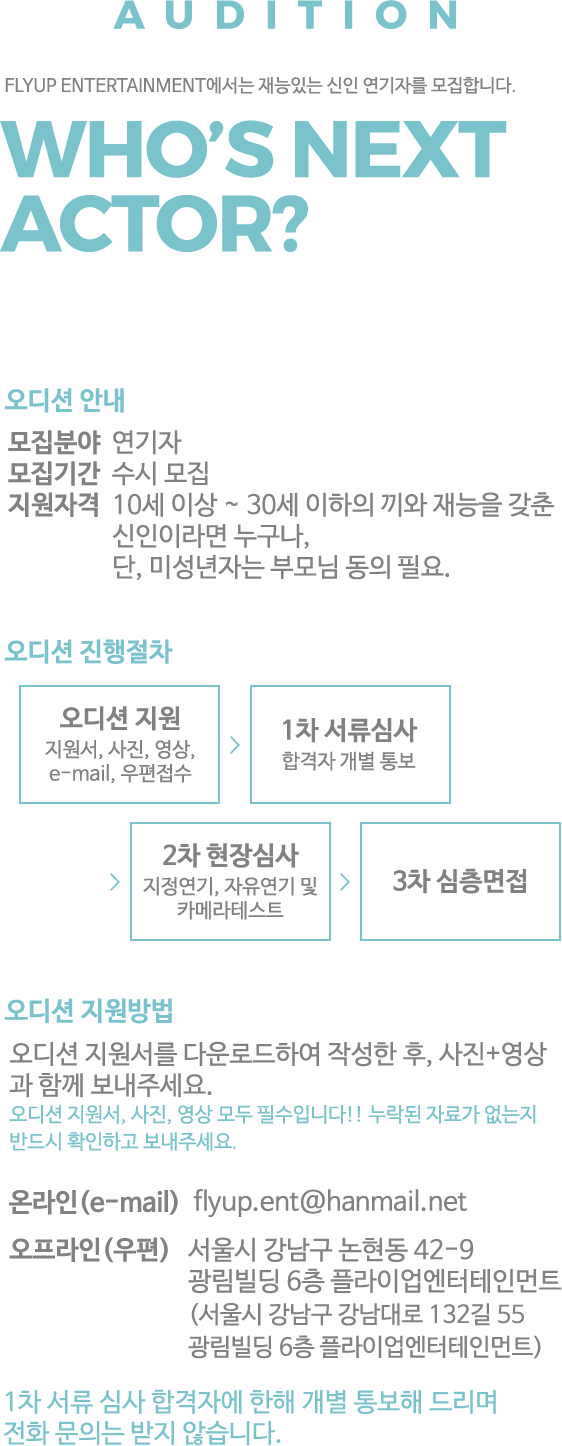
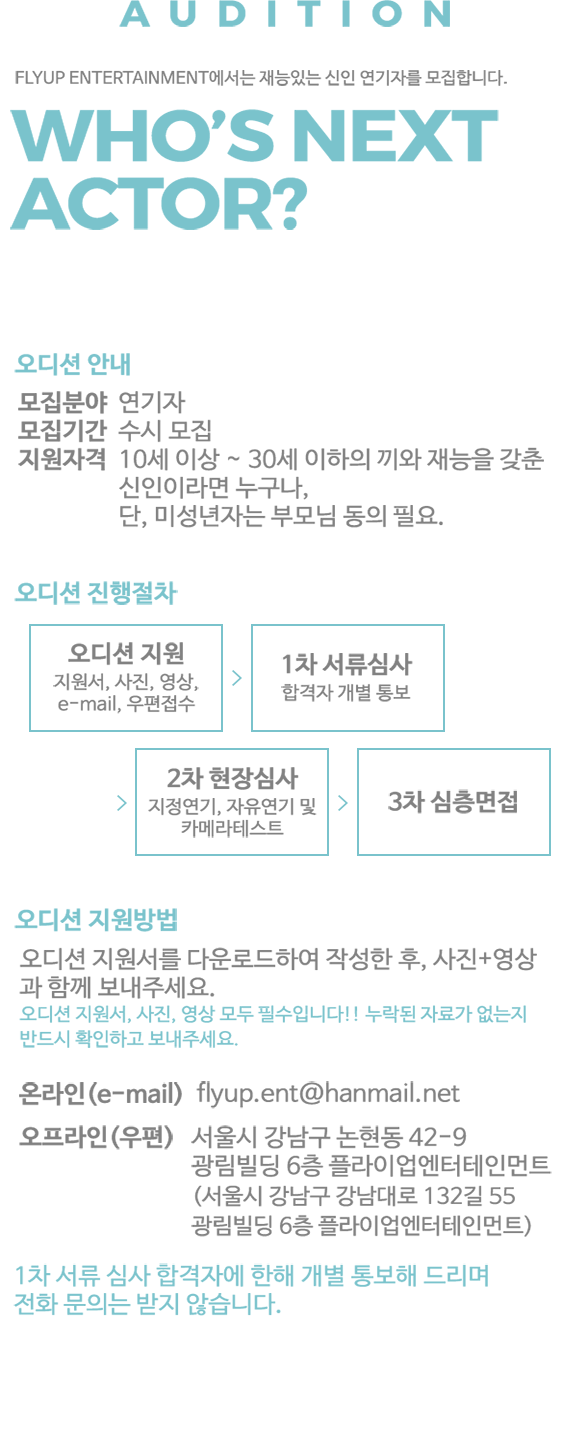
finished audition, recruitment

Changed region(s): [[0.0, 0.249, 0.9982, 1.0], [0.0, 0.0, 0.9075, 0.1867], [0.968, 0.529, 0.9982, 0.6535]]

diff --git a/css/style.css b/css/style.css
@@ -247,7 +247,7 @@ background-color:  rgba(122,195,204,1);
 .sub_audi_01_contents{
   
 }
-.sub_audi_01{width:100%;float:left;    height: 1530px;;background: url('../images/AUDITION_01.png') no-repeat center;}
+.sub_audi_01{width:100%;float:left;height: 1530px;;background-image: url('../images/AUDITION_01.png');}
 .sub_audi_02{width:100%;float:left;height:143px;background: url('../images/sub_visual_05.jpg') no-repeat center;}
 .sub_visual_06{width:100%;float:left;height:1110px;background: url('../images/contact.png') no-repeat center; background-size: 100%;
   }
@@ -300,14 +300,26 @@ background-color:  rgba(122,195,204,1);
 
 
 /*=== Audition ===*/
-.audi_tap{    position: absolute;
+.audi_tap{  
+    position: relative;
     display: inline-block;
     width: 100%;
     float: left;
     text-align: center;
-    top: 425px;
-    padding-left: 40px;
-    padding-right: 40px;}
+    margin-top: 15px;
+    margin-bottom: 15px;
+}
+
+.audi_tap_recu{
+    position: relative;
+    display: inline-block;
+    width: 100%;
+    float: left;
+    text-align: center;
+    margin-top: 15px;
+    margin-bottom: 15px;
+   
+}
 .a_tap{    width: 50%;
     height: 46px;
     float: left;
@@ -321,23 +333,53 @@ background-color:  rgba(122,195,204,1);
     height: 46px;
     float: right;
     color: grey;
-    border: solid 2px;
+    border: solid 2px rgb(129,129,129)
 }
 .r_tap a{color:grey; font-weight:bold; font-size:18px; position:relative; top:12px;}
+
+.r_tap_detail{ 
+    width: 50%;
+    height: 46px;
+    float: right;
+    color: grey;
+
+}
+.r_tap_detail a{    color: #fff;
+font-weight: bold;
+font-size: 18px;
+position: relative;
+top: 12px;}
+
+.a_tap_detail{    width: 50%;
+height: 46px;
+float: left;
+border: solid 2px rgba(129,129,129,1);
+}
+.a_tap_detail a{color:grey; font-weight:bold; font-size:18px; position:relative; top:12px;}
+
+
+
+
 
 .audi_tt{font-size:14px; color:#5c5c5c; font-weight:bold; letter-spacing:-1px;}
 .audi_title{font-size:13px; color:#016eb2; font-weight:bold; margin-bottom:10px; }
 .audi_table{width:100%; margin:15px 0; }
 .audi_table table{border:1px solid #dddddd;border-collapse:collapse;}
 .audi_table td{border:1px solid #dddddd; padding:15px;}
-.down_btn{    position: relative;
+.down_btn{    
+    position: relative;
     display: inline-block;
-    width: 560px;
+    width: 100%;
     height: 46px;
-    background: rgb(122,195,204);
+    background-color: rgb(122,195,204);
     text-align: center;
+    color: white;
+    font-size: 20px;
+    font-weight: bold;
+    line-height: 46px;
+    margin-top: 15px;
 };
-.down_btn a{color:#ffffff; font-weight:bold; font-size:12px; position:relative; top:12px;}
+
 .sub_in_line{width:100%;border-top:1px solid #dddddd;margin:35px auto;}
 
 

diff --git a/subpage/audition/audition_02.php b/subpage/audition/audition_02.php
@@ -1,97 +1,23 @@
 <?php include($_SERVER["DOCUMENT_ROOT"]."/m/page_top.php"); ?>
-
-	<div class="sub_audi_02">
-	</div><!-- sub_visual 종료 -->
-
-	
-	<div class="sub_con">
-		<div class="sub_contents">
-
-		<div class="audi_tap">
-			<div class="a_tap" style="background:#b9b9b9;">
-				<a href="/m/subpage/audition/audition_01.php">Audition</a>
-			</div>
-			<div class="r_tap" style="background:#007bc7;">
-				<a href="/m/subpage/audition/audition_02.php">Recruitment</a>
-			</div>
-		 </div>
-
-		<div class="box_out">
-			<div class="box_in">			 
-			  <div style="width:86%; margin:0px auto; line-height:200%;">
-				  
-				  <p class="audi_tt">
-					<span style="font-size:22px; color:#016eb2;">FLYUP ENTERTAINMENT</span>에서는
-					<span style="font-size:18px; color:#444444;">성실한 플라이업 가족</span>을 모집합니다.
-				  </p>
-				  <div class="audi_title" style="margin-top:25px;">
-				    채용 안내
-			      </div>
-				  <p>
-					<strong>모집분야 : </strong>매니저 / 홍보팀<br>
-					<strong>모집기간 : </strong>수시 모집<br>
-					<strong>지원자격 : </strong>매니저-23세 이상~30세 이하 면허를 소지한 성실한 남성이라면 누구나.
-					 (군필자 우대)
-				  </p>
-				  <div class="audi_title" style="margin-top:40px;">
-				    면접 진행절차
-			      </div>
-				  <img src="/m/images/recruit.jpg" style="width:100%;">
-				  <p style="margin-top:15px;">
-					<strong>01.메니저/홍보팀 지원</strong>(이력서 E-mail/우편 접수)<br>
-					<strong>02.1차 서류심사</strong>(합격자 개별 통보)<br>
-					<strong>03.2차 심층면접</strong>
-				  </p>
-				  <div class="audi_title" style="margin-top:40px;">
-				    입사 지원방법
-			      </div>
-				  <p>
-					이력서를 다운로드하여 작성해 보내주세요.
-				  </p>
-				  <div class="audi_table">
-					  <table width="100%" border="0" cellspacing="0" cellpadding="0">
-						  <tr>
-							 <td width="30%" bgcolor="#f7f7f7" align="center"><strong>온라인(e-mail)</strong></td>
-							 <td width="70%">flyup.ent@hanmail.net</td>
-						  </tr>
-						  <tr>
-							 <td bgcolor="#f7f7f7" align="center"><strong>오프라인(우편)</strong></td>
-							 <td>서울시 강남구 논현동 42-9 광림빌딩 6층 플라이업엔터테인먼트
-							(도로명주소:서울시 강남구 강남대로 132길 55 광림빌딩 6층 
-							플라이업엔터테인먼트)</td>
-						  </tr>
-					  </table>
-				  </div><!-- audi_table-->
-				  <p style="color:#ff8400">1차 서류 심사 합격자에 한해 개별 통보해 드리며 전화 문의는 받지 않습니다. 
-				  </p>
-				  <div class="down_btn">
-					<a href="/m/subpage/audition/flyup_audition.docx" target="_blank">입사 지원서 다운로드
-					<img src="/m/images/down.png" style="width:12px; position:relative; top:3px; left:3px;"></a>
+	<div style=" margin: 0px 25px 25px 25px;">
+	<hr/>
+	<img src="../../images/audition/audi_title.png" width="100%"/>
+					<div class="audi_tap">
+							<div class="a_tap_detail" style="background:white;">
+								<a href="/m/subpage/audition/audition_01.php">지 원 방 법</a>
+							</div>
+							<div class="r_tap_detail" style="background: rgba(129,129,129,1);">
+								<a href="/m/subpage/audition/audition_02.php">유 의 사 항</a>
+							</div>
+						</div>
+		<img src="../../images/audition/audiB.png" width="100%"/>
+		 <div class="down_btn">오디션 지원서 다운로드
+					<a href="/m/subpage/audition/flyup_audition.docx" target="_blank">
+					<img src="/m/images/down.png" style="width: 35px;
+    position: relative;
+    margin-left: 10px;"></a>
 				  </div>
-				 <div class="sub_in_line"></div>
-				 <div class="audi_title" style="">
-				    입사 지원시 주의사항
-			      </div>
-				  <p>
-					입사 지원서에 응시일자, 이름, 연락처, 나이는 반드시 기재해주세요.<br>
-					ㆍ남자는 군필 여부 기재 필수<br>
-					ㆍ나이는 ‘만 나이’로 기재<br><br>
-
-					e-mail 접수의 경우, 파일명과 메일제목은 "[지원부서]날짜_이름"으로 반드시 통일해주세요.<br>
-					ex)ㆍ[매니저]20151001_홍길동<br>
-					ㆍ[홍보팀]20151001_홍길동<br><br>
-
-					입사 지원은 온라인/오프라인에 관계없이 한 번만 가능합니다. <br>
-					ㆍ단, 처음 신청할 때 정보가 누락되어 수정이 불가피한 경우에는 다시 작성하여 지원 가능
-				  </p>
-
-			  </div>			
-			</div><!-- box_in-->
-		</div><!--box_out-->
-
-		</div><!-- sub_contents -->
-	</div><!-- sub_con -->
-
-	
+			<hr/>
+	</div>
 
 <?php include($_SERVER["DOCUMENT_ROOT"]."/m/page_foot.php"); ?>

diff --git a/subpage/audition/audition_01.php b/subpage/audition/audition_01.php
@@ -1,11 +1,10 @@
 <?php include($_SERVER["DOCUMENT_ROOT"]."/m/page_top.php"); ?>
 
-	<div class="sub_audi_01">
-	</div><!-- sub_visual 종료 -->
 
-
-		<div class="sub_contents">
-						<div class="audi_tap">
+	<div style=" margin: 0px 25px 25px 25px;">
+	<hr/>
+	  <img src="../../images/audition/audi_title.png" width="100%"/>
+					<div class="audi_tap">
 							<div class="a_tap" style="background: rgba(129,129,129,1);">
 								<a href="/m/subpage/audition/audition_01.php">지 원 방 법</a>
 							</div>
@@ -13,18 +12,14 @@
 								<a href="/m/subpage/audition/audition_02.php">유 의 사 항</a>
 							</div>
 						</div>
-					<div class="sub_con_audi">	
-		
-				  <div class="down_btn">
-					<a href="/m/subpage/audition/flyup_audition.docx" target="_blank">오디션 지원서 다운로드
-					<img src="/m/images/down.png" style="width:12px; position:relative; top:3px; left:3px;"></a>
+		<img src="../../images/audition/audiA.png" width="100%"/>
+		 <div class="down_btn">오디션 지원서 다운로드
+					<a href="/m/subpage/audition/flyup_audition.docx" target="_blank">
+					<img src="/m/images/down.png" style="width: 35px;
+    position: relative;
+    margin-left: 10px;"></a>
 				  </div>
-					</div><!-- sub_contents -->
-
-
-		
-	
-
-	
+			<hr/>
+	</div>
 
 <?php include($_SERVER["DOCUMENT_ROOT"]."/m/page_foot.php"); ?>

diff --git a/subpage/recruit/recruit_02.php b/subpage/recruit/recruit_02.php
@@ -1,0 +1,24 @@
+<?php include($_SERVER["DOCUMENT_ROOT"]."/m/page_top.php"); ?>
+
+	<div style=" margin: 0px 25px 25px 25px;">
+	<hr/>
+    <img src="../../images/recruit/recu01A.png" width="100%"/>
+					<div class="audi_tap_recu">
+							<div class="a_tap_detail" style="background:white;">
+								<a href="/m/subpage/recruit/recruit_01.php">지 원 방 법</a>
+							</div>
+							<div class="r_tap_detail" style="background: rgba(129,129,129,1);">
+								<a href="/m/subpage/recruit/recruit_02.php">유 의 사 항</a>
+							</div>
+						</div>
+		<img src="../../images/recruit/recu02B.png" width="100%"/>
+		 <div class="down_btn">입사 지원서 다운로드
+					<a href="/m/subpage/recruit/flyup_recruit.docx" target="_blank">
+					<img src="/m/images/down.png" style="width: 35px;
+    position: relative;
+    margin-left: 10px;"></a>
+				  </div>
+			<hr/>
+	</div>
+   
+<?php include($_SERVER["DOCUMENT_ROOT"]."/m/page_foot.php"); ?>

diff --git a/subpage/recruit/recruit_01.php b/subpage/recruit/recruit_01.php
@@ -1,0 +1,24 @@
+<?php include($_SERVER["DOCUMENT_ROOT"]."/m/page_top.php"); ?>
+
+	<div style=" margin: 0px 25px 25px 25px;">
+	    <hr/>
+        <img src="../../images/recruit/recu01A.png" width="100%"/>
+					<div class="audi_tap_recu">
+							<div class="a_tap" style="background: rgba(129,129,129,1);">
+								<a href="/m/subpage/recruit/recruit_01.php">지 원 방 법</a>
+							</div>
+							<div class="r_tap" style="background:white;">
+								<a href="/m/subpage/recruit/recruit_02.php">유 의 사 항</a>
+							</div>
+						</div>
+		<img src="../../images/recruit/recu01B.png" width="100%"/>
+		 <div class="down_btn">입사 지원서 다운로드
+					<a href="/m/subpage/recruit/flyup_recruit.docx" target="_blank">
+					<img src="/m/images/down.png" style="width: 35px;
+    position: relative;
+    margin-left: 10px;"></a>
+				  </div>
+			<hr/>
+	</div>
+
+<?php include($_SERVER["DOCUMENT_ROOT"]."/m/page_foot.php"); ?>

diff --git a/page_top.php b/page_top.php
@@ -451,7 +451,7 @@
 								</div></a>		
 						</div>
 						<div class="pop_smenu" style="clear:both;">
-							<a href="/m/subpage/star/star.php">
+							<a href="/m/subpage/recruit/recruit_01.php">
 							<div style="font-weight:bold;width:95%;height:33px;font-size:14px;color:white;padding: 0px 15px;-webkit-box-align: center;
     display: -webkit-box;
 							">
